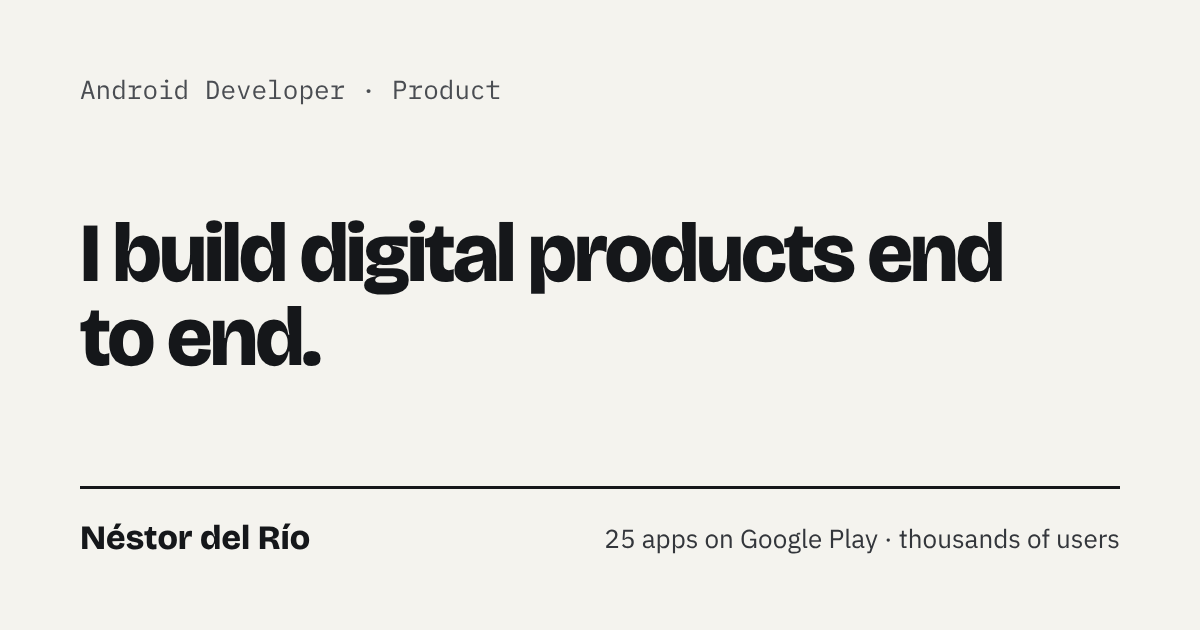
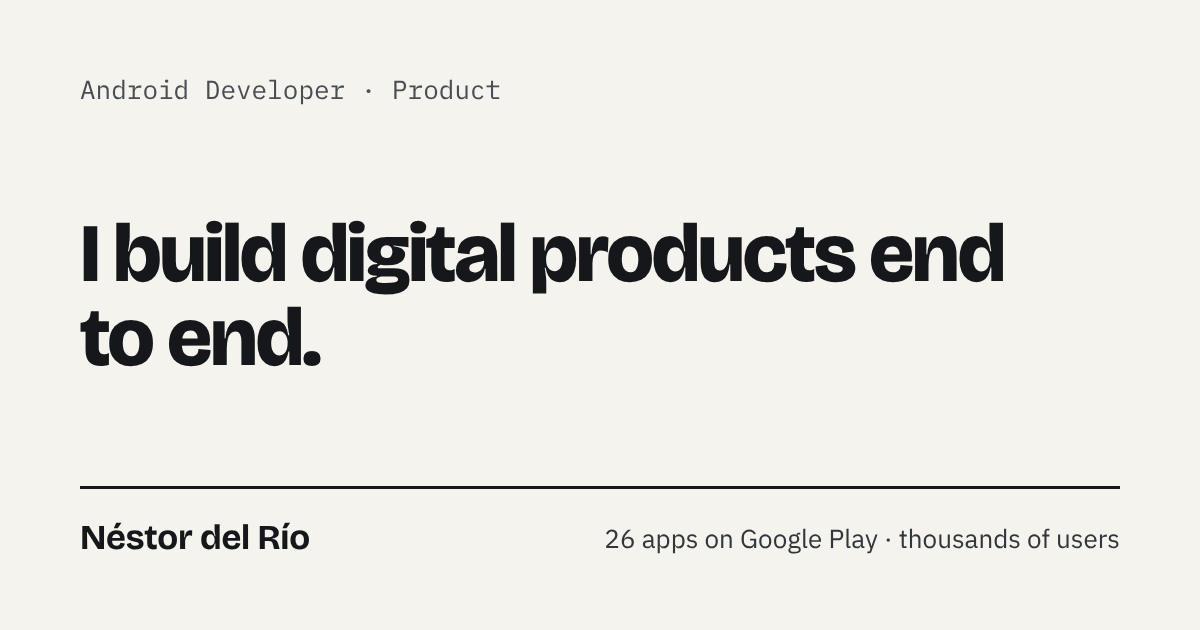
Agrega Baseball Manager: Idle Dynasty; 26 apps
- Catálogo: Baseball Manager (Béisbol Manager: Dinastía Idle /
  Beisebol Manager: Dinastia), junto a Home Run Legends.
- Conteo de apps y tarjetas OG actualizados a 26.

Claude-Session: https://claude.ai/code/session_012JjmFPpkb9Bcj1f9CkMSAz

diff --git a/index.html b/index.html
@@ -66,7 +66,7 @@ a{color:#15171A}a:hover{color:#5B2BB5}
 </div>
 <div style="display: grid; grid-template-columns: repeat(auto-fit, minmax(220px, 1fr)); margin-top: 64px; border-top: 1.5px solid #15171A">
 <div style="padding: 20px 24px 0 0">
-<div style="font-family: 'Bricolage Grotesque', sans-serif; font-weight: 700; font-size: 48px; letter-spacing: -0.03em">25</div>
+<div style="font-family: 'Bricolage Grotesque', sans-serif; font-weight: 700; font-size: 48px; letter-spacing: -0.03em">26</div>
 <div style="font-size: 15px; color: #4A4D52; margin-top: 4px">apps publicadas en Google Play</div>
 </div>
 <div style="padding: 20px 24px 0 0">
@@ -221,6 +221,13 @@ a{color:#15171A}a:hover{color:#5B2BB5}
 <div style="min-width: 0">
 <div style="font-weight: 600; font-size: 16px; line-height: 1.3">Home Run Legends: Baseball</div>
 <div style="font-size: 14px; color: #4A4D52; margin-top: 3px">Béisbol</div>
+</div>
+</a>
+<a href="https://play.google.com/store/apps/details?id=com.nestordelrio.baseballdynasty" style="display: flex; gap: 16px; align-items: center; padding: 16px; background: #F4F3EE; border: 1px solid #E2E0D8; border-radius: 18px; text-decoration: none; color: #15171A">
+<img src="/assets/img/icon-baseballdynasty.png" alt="" style="flex: 0 0 56px; width: 56px; height: 56px; border-radius: 14px">
+<div style="min-width: 0">
+<div style="font-weight: 600; font-size: 16px; line-height: 1.3">Béisbol Manager: Dinastía Idle</div>
+<div style="font-size: 14px; color: #4A4D52; margin-top: 3px">Béisbol · manager idle</div>
 </div>
 </a>
 <a href="https://play.google.com/store/apps/details?id=com.nestordelrio.bingosellado" style="display: flex; gap: 16px; align-items: center; padding: 16px; background: #F4F3EE; border: 1px solid #E2E0D8; border-radius: 18px; text-decoration: none; color: #15171A">

diff --git a/en/index.html b/en/index.html
@@ -66,7 +66,7 @@ a{color:#15171A}a:hover{color:#5B2BB5}
 </div>
 <div style="display: grid; grid-template-columns: repeat(auto-fit, minmax(220px, 1fr)); margin-top: 64px; border-top: 1.5px solid #15171A">
 <div style="padding: 20px 24px 0 0">
-<div style="font-family: 'Bricolage Grotesque', sans-serif; font-weight: 700; font-size: 48px; letter-spacing: -0.03em">25</div>
+<div style="font-family: 'Bricolage Grotesque', sans-serif; font-weight: 700; font-size: 48px; letter-spacing: -0.03em">26</div>
 <div style="font-size: 15px; color: #4A4D52; margin-top: 4px">apps published on Google Play</div>
 </div>
 <div style="padding: 20px 24px 0 0">
@@ -221,6 +221,13 @@ a{color:#15171A}a:hover{color:#5B2BB5}
 <div style="min-width: 0">
 <div style="font-weight: 600; font-size: 16px; line-height: 1.3">Home Run Legends: Baseball</div>
 <div style="font-size: 14px; color: #4A4D52; margin-top: 3px">Baseball</div>
+</div>
+</a>
+<a href="https://play.google.com/store/apps/details?id=com.nestordelrio.baseballdynasty" style="display: flex; gap: 16px; align-items: center; padding: 16px; background: #F4F3EE; border: 1px solid #E2E0D8; border-radius: 18px; text-decoration: none; color: #15171A">
+<img src="/assets/img/icon-baseballdynasty.png" alt="" style="flex: 0 0 56px; width: 56px; height: 56px; border-radius: 14px">
+<div style="min-width: 0">
+<div style="font-weight: 600; font-size: 16px; line-height: 1.3">Baseball Manager: Idle Dynasty</div>
+<div style="font-size: 14px; color: #4A4D52; margin-top: 3px">Idle baseball manager</div>
 </div>
 </a>
 <a href="https://play.google.com/store/apps/details?id=com.nestordelrio.bingosellado" style="display: flex; gap: 16px; align-items: center; padding: 16px; background: #F4F3EE; border: 1px solid #E2E0D8; border-radius: 18px; text-decoration: none; color: #15171A">

diff --git a/pt/index.html b/pt/index.html
@@ -66,7 +66,7 @@ a{color:#15171A}a:hover{color:#5B2BB5}
 </div>
 <div style="display: grid; grid-template-columns: repeat(auto-fit, minmax(220px, 1fr)); margin-top: 64px; border-top: 1.5px solid #15171A">
 <div style="padding: 20px 24px 0 0">
-<div style="font-family: 'Bricolage Grotesque', sans-serif; font-weight: 700; font-size: 48px; letter-spacing: -0.03em">25</div>
+<div style="font-family: 'Bricolage Grotesque', sans-serif; font-weight: 700; font-size: 48px; letter-spacing: -0.03em">26</div>
 <div style="font-size: 15px; color: #4A4D52; margin-top: 4px">apps publicados no Google Play</div>
 </div>
 <div style="padding: 20px 24px 0 0">
@@ -221,6 +221,13 @@ a{color:#15171A}a:hover{color:#5B2BB5}
 <div style="min-width: 0">
 <div style="font-weight: 600; font-size: 16px; line-height: 1.3">Home Run Legends: Baseball</div>
 <div style="font-size: 14px; color: #4A4D52; margin-top: 3px">Beisebol</div>
+</div>
+</a>
+<a href="https://play.google.com/store/apps/details?id=com.nestordelrio.baseballdynasty" style="display: flex; gap: 16px; align-items: center; padding: 16px; background: #F4F3EE; border: 1px solid #E2E0D8; border-radius: 18px; text-decoration: none; color: #15171A">
+<img src="/assets/img/icon-baseballdynasty.png" alt="" style="flex: 0 0 56px; width: 56px; height: 56px; border-radius: 14px">
+<div style="min-width: 0">
+<div style="font-weight: 600; font-size: 16px; line-height: 1.3">Beisebol Manager: Dinastia</div>
+<div style="font-size: 14px; color: #4A4D52; margin-top: 3px">Beisebol · manager idle</div>
 </div>
 </a>
 <a href="https://play.google.com/store/apps/details?id=com.nestordelrio.bingosellado" style="display: flex; gap: 16px; align-items: center; padding: 16px; background: #F4F3EE; border: 1px solid #E2E0D8; border-radius: 18px; text-decoration: none; color: #15171A">
